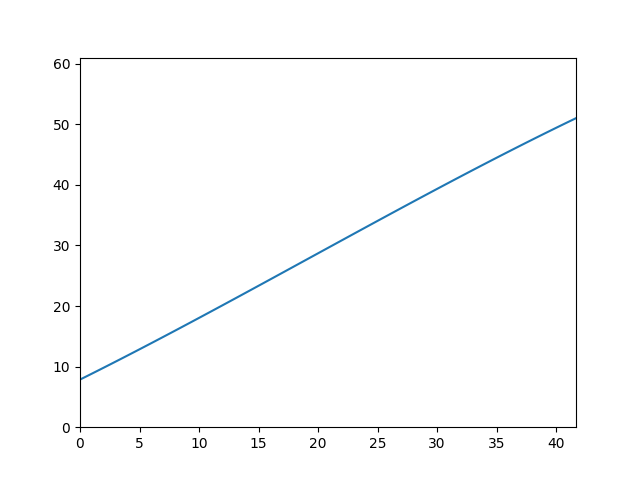
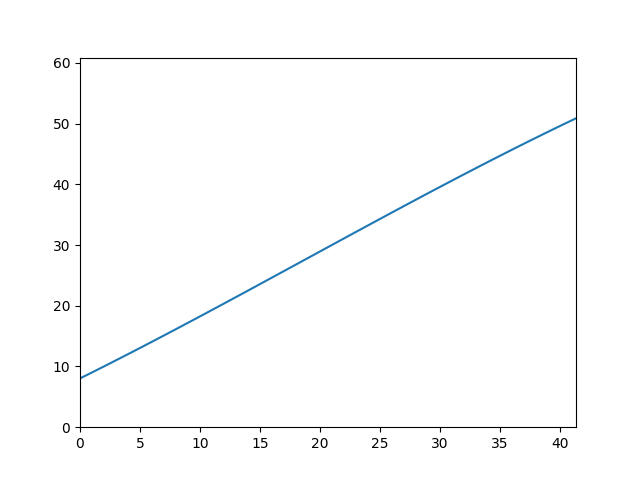
Calc CUES 10

diff --git a/derailleurs/Shimano CUES 10-Speed/default.htm b/derailleurs/Shimano CUES 10-Speed/default.htm
@@ -25,31 +25,31 @@ Shimano CUES 10-Speed
   </tr>
   <tr>
     <th>Curve Coefficients</th>
-    <td>7.86, 0.977, 0.00500, -0.000086</td>
+    <td>8.03, 0.979, 0.00507, -0.000089</td>
   </tr>
   <tr>
     <th>Physical Low Limit</th>
-    <td>7.86</td>
+    <td>8.03</td>
   </tr>
   <tr>
     <th>Physical High Limit</th>
-    <td>51.02</td>
+    <td>50.87</td>
   </tr>
   <tr>
     <th>Pull Ratio Averaged Across Pulling Runs</th>
-    <td>1.059 +/- 0.000</td>
+    <td>1.062 +/- 0.005</td>
   </tr>
   <tr>
     <th>Pull Ratio Averaged Across Relaxing Runs</th>
-    <td>1.057 +/- 0.000</td>
+    <td>1.054 +/- 0.018</td>
   </tr>
   <tr>
     <th>Pull Ratio Averaged Across All Runs</th>
-    <td>1.058 +/- 0.002</td>
+    <td>1.058 +/- 0.015</td>
   </tr>
   <tr>
     <th>Pull Ratio 95% Confidence Interval</th>
-    <td>1.056 to 1.059</td>
+    <td>1.043 to 1.074</td>
   </tr>
   
   
@@ -87,6 +87,46 @@ Shimano CUES 10-Speed
 </section>
 
 
+<section>
+<h2>2024-11-25 19-14 PM Pulling</h2>
+<a href="pullratio/2024-11-25 19-14 PM Pulling.csv">Raw Measurement Data</a>
+<figure>
+<img src="pullratio/2024-11-25 19-14 PM Pulling.png"/>
+<figcaption>Data and best fit line, excluding points taken at limits</figcaption>
+</figure>
+</section>
+
+
+<section>
+<h2>2024-11-25 19-31 PM Relaxing</h2>
+<a href="pullratio/2024-11-25 19-31 PM Relaxing.csv">Raw Measurement Data</a>
+<figure>
+<img src="pullratio/2024-11-25 19-31 PM Relaxing.png"/>
+<figcaption>Data and best fit line, excluding points taken at limits</figcaption>
+</figure>
+</section>
+
+
+<section>
+<h2>2024-11-25 19-47 PM Pulling</h2>
+<a href="pullratio/2024-11-25 19-47 PM Pulling.csv">Raw Measurement Data</a>
+<figure>
+<img src="pullratio/2024-11-25 19-47 PM Pulling.png"/>
+<figcaption>Data and best fit line, excluding points taken at limits</figcaption>
+</figure>
+</section>
+
+
+<section>
+<h2>2024-11-25 19-57 PM Relaxing</h2>
+<a href="pullratio/2024-11-25 19-57 PM Relaxing.csv">Raw Measurement Data</a>
+<figure>
+<img src="pullratio/2024-11-25 19-57 PM Relaxing.png"/>
+<figcaption>Data and best fit line, excluding points taken at limits</figcaption>
+</figure>
+</section>
+
+
 
   </div>
   <div class="spacer"></div>
@@ -96,7 +136,7 @@ Shimano CUES 10-Speed
       <a href="https://buymeacoffee.com/boothsprojects" target="_blank">Buy me a coffee!</a></span>
       &middot;
     <span> Not affiliated with Shimano, SRAM, or other manufacturers. Use at your own risk.</span>
-    <span style="float: right">Last Updated 2024-11-24</span>
+    <span style="float: right">Last Updated 2024-11-25</span>
   </footer>
 </body>
 
